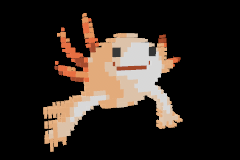
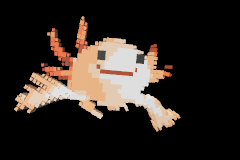
Make the README axolotl feel more alive

Changed region(s): [[0.0583, 0.0625, 0.7583, 0.9688]]

diff --git a/artwork/axolotl-model.tsx b/artwork/axolotl-model.tsx
@@ -25,11 +25,13 @@ type PartId =
   | "gill-right-upper"
   | "gill-right-side"
   | "limb-left"
-  | "limb-right";
+  | "limb-right"
+  | "eyes";
 type PartDefinition = {
   id: PartId;
   pivot: [number, number];
   amplitude: number;
+  depthAmplitude: number;
   frequency: number;
   phase: number;
   direction: number;
@@ -37,27 +39,30 @@ type PartDefinition = {
 type LayerShapes = { fill: string; shapes: Record<PartId, Solid | null> };
 
 const [WIDTH, HEIGHT] = axolotl.viewBox;
-const DEPTH = 0.2;
-const LAYER_STEP = 0.018;
+const DEPTH = 0.32;
+const LAYER_STEP = 0.04;
 const SVG_SCALE = 0.01;
 const TAU = Math.PI * 2;
+const EYE_FILL = axolotl.layers[axolotl.layers.length - 1].fill;
 
 const PARTS: PartDefinition[] = [
-  { id: "body", pivot: [156, 133], amplitude: 0, frequency: 0, phase: 0, direction: 0 },
-  { id: "gill-left-upper", pivot: [80, 94], amplitude: 0.2, frequency: 2, phase: 0.1, direction: 1 },
-  { id: "gill-left-side", pivot: [78, 109], amplitude: 0.17, frequency: 2, phase: 0.8, direction: -1 },
-  { id: "gill-left-inner", pivot: [99, 72], amplitude: 0.11, frequency: 2, phase: 1.3, direction: 1 },
-  { id: "gill-right-upper", pivot: [264, 92], amplitude: 0.18, frequency: 2, phase: 0.55, direction: -1 },
-  { id: "gill-right-side", pivot: [270, 107], amplitude: 0.15, frequency: 2, phase: 1.1, direction: 1 },
-  { id: "limb-left", pivot: [116, 174], amplitude: 0.36, frequency: 1, phase: 0, direction: 1 },
-  { id: "limb-right", pivot: [218, 174], amplitude: 0.36, frequency: 1, phase: Math.PI, direction: 1 },
+  { id: "body", pivot: [156, 133], amplitude: 0, depthAmplitude: 0, frequency: 0, phase: 0, direction: 0 },
+  { id: "gill-left-upper", pivot: [80, 94], amplitude: 0.25, depthAmplitude: 0.08, frequency: 2, phase: 0.1, direction: 1 },
+  { id: "gill-left-side", pivot: [78, 109], amplitude: 0.21, depthAmplitude: 0.07, frequency: 2, phase: 0.8, direction: -1 },
+  { id: "gill-left-inner", pivot: [99, 72], amplitude: 0.14, depthAmplitude: 0.05, frequency: 2, phase: 1.3, direction: 1 },
+  { id: "gill-right-upper", pivot: [264, 92], amplitude: 0.23, depthAmplitude: 0.08, frequency: 2, phase: 0.55, direction: -1 },
+  { id: "gill-right-side", pivot: [270, 107], amplitude: 0.19, depthAmplitude: 0.07, frequency: 2, phase: 1.1, direction: 1 },
+  { id: "limb-left", pivot: [116, 174], amplitude: 0.48, depthAmplitude: 0.16, frequency: 1, phase: 0, direction: 1 },
+  { id: "limb-right", pivot: [218, 174], amplitude: 0.46, depthAmplitude: 0.15, frequency: 1, phase: Math.PI, direction: 1 },
+  { id: "eyes", pivot: [184, 76], amplitude: 0, depthAmplitude: 0, frequency: 0, phase: 0, direction: 0 },
 ];
 
-function partFor(rectangle: Rectangle): PartId {
+function partFor(rectangle: Rectangle, fill: string): PartId {
   const [x, y, width, height] = rectangle;
   const centerX = x + width / 2;
   const centerY = y + height / 2;
 
+  if (fill === EYE_FILL) return "eyes";
   if (centerY < 96 && centerX < 82) return "gill-left-upper";
   if (centerY >= 96 && centerY < 137 && centerX < 82) return "gill-left-side";
   if (centerY < 76 && centerX >= 82 && centerX < 120) return "gill-left-inner";
@@ -84,7 +89,7 @@ function makeSolid(rectangles: Rectangle[], pivot: [number, number], layerIndex:
 
 const LAYER_SHAPES: LayerShapes[] = (axolotl.layers as PixelLayer[]).map((layer, layerIndex) => {
   const grouped = Object.fromEntries(PARTS.map((part) => [part.id, []])) as Record<PartId, Rectangle[]>;
-  for (const rectangle of layer.rectangles) grouped[partFor(rectangle)].push(rectangle);
+  for (const rectangle of layer.rectangles) grouped[partFor(rectangle, layer.fill)].push(rectangle);
 
   const shapes = {} as Record<PartId, Solid | null>;
   for (const part of PARTS) shapes[part.id] = makeSolid(grouped[part.id], part.pivot, layerIndex);
@@ -116,12 +121,14 @@ function LayerMeshes({ part }: { part: PartId }) {
 export function Axolotl({ phase = 0, yaw = 0.18, scale = 1, x = 0, y = 0, z = 0, loopFrames = 144 }: AxolotlProps) {
   const frame = useCurrentFrame();
   const cycle = (frame / loopFrames) * TAU + phase;
-  const bob = Math.sin(cycle) * 0.045;
-  const pitch = Math.sin(cycle + 0.55) * 0.065;
-  const yawSway = yaw + Math.sin(cycle - 0.7) * 0.11;
-  const roll = Math.sin(cycle + 0.25) * 0.055;
-  const breath = Math.sin(cycle * 2 + 0.3) * 0.018;
-
+  const bob = Math.sin(cycle) * 0.065;
+  const pitch = Math.sin(cycle + 0.55) * 0.11;
+  const yawSway = yaw + Math.sin(cycle - 0.7) * 0.19;
+  const roll = Math.sin(cycle + 0.25) * 0.08;
+  const breath = Math.sin(cycle * 2 + 0.3) * 0.028;
+  const loopProgress = ((frame / loopFrames + phase / TAU) % 1 + 1) % 1;
+  const blink = Math.max(0, 1 - Math.abs(loopProgress - 0.63) / 0.018);
+  const eyeScaleY = 1 - blink * 0.92;
   return (
     <Entity
       transform={Transform.fromXyz(x, y + bob, z)
@@ -132,13 +139,18 @@ export function Axolotl({ phase = 0, yaw = 0.18, scale = 1, x = 0, y = 0, z = 0,
         <LayerMeshes part="body" />
       </Entity>
       {PARTS.filter((part) => part.id !== "body").map((part) => {
-        const angle = Math.sin(cycle * part.frequency + part.phase) * part.amplitude * part.direction;
+        const partCycle = cycle * part.frequency + part.phase;
+        const angle = Math.sin(partCycle) * part.amplitude * part.direction;
+        const depthAngle = Math.sin(partCycle - 0.65) * part.depthAmplitude * part.direction;
         const pivotX = (part.pivot[0] - WIDTH / 2) * SVG_SCALE;
         const pivotY = (HEIGHT / 2 - part.pivot[1]) * SVG_SCALE;
+        const scaleY = part.id === "eyes" ? eyeScaleY : 1;
         return (
           <Entity
             key={part.id}
-            transform={Transform.fromXyz(pivotX, pivotY, 0).withRotation(Quat.fromEuler("XYZ", 0, 0, angle))}
+            transform={Transform.fromXyz(pivotX, pivotY, 0)
+              .withRotation(Quat.fromEuler("XYZ", depthAngle, depthAngle * 0.35, angle))
+              .withScale([1, scaleY, 1])}
           >
             <LayerMeshes part={part.id} />
           </Entity>

diff --git a/artwork/axolotl-3d.tsx b/artwork/axolotl-3d.tsx
@@ -6,8 +6,8 @@ import { Axolotl } from "./axolotl-model";
 
 const WIDTH = 240;
 const HEIGHT = 160;
-const FRAMES = 48;
-const FPS = 12;
+const FRAMES = 96;
+const FPS = 24;
 
 type SwimProps = {
   phase: number;
@@ -19,11 +19,11 @@ type SwimProps = {
 function Swim({ phase, yaw, direction, tint }: SwimProps) {
   const frame = useCurrentFrame();
   const cycle = (frame / FRAMES) * Math.PI * 2;
-  const drift = Math.sin(cycle + phase) * 0.28 * direction;
+  const drift = Math.sin(cycle + phase) * 0.32 * direction;
   return (
     <AbsoluteFill style={{ background: tint }}>
       <Camera3d
-        transform={Transform.fromXyz(0, 0.45, 3.8).lookingAt([0, 0, 0])}
+        transform={Transform.fromXyz(0.62, 0.72, 3.8).lookingAt([0, 0, 0])}
         projection={{ Perspective: { fov: (44 * Math.PI) / 180 } }}
       />
       <AmbientLight brightness={150} />
@@ -31,7 +31,7 @@ function Swim({ phase, yaw, direction, tint }: SwimProps) {
         transform={Transform.fromXyz(-2.8, 4.2, 5).lookingAt([0, 0, 0])}
         illuminance={9800}
       />
-      <Axolotl phase={phase} loopFrames={FRAMES} yaw={yaw} scale={0.9} x={drift} y={0.02 + Math.sin(cycle * 2 + phase) * 0.025} />
+      <Axolotl phase={phase} loopFrames={FRAMES} yaw={yaw} scale={0.9} x={drift} y={0.02 + Math.sin(cycle * 2 + phase) * 0.04} />
     </AbsoluteFill>
   );
 }

diff --git a/artwork/readme-hero.tsx b/artwork/readme-hero.tsx
@@ -66,7 +66,7 @@ function Hero() {
 
       <Canvas3D layered>
         <Camera3d
-          transform={Transform.fromXyz(0, 0.28, 7.5).lookingAt([0, 0, 0])}
+          transform={Transform.fromXyz(0.9, 0.6, 7.5).lookingAt([0, 0, 0])}
           projection={{ Perspective: { fov: (40 * Math.PI) / 180 } }}
         />
         <AmbientLight brightness={150} />

diff --git a/README.md b/README.md
@@ -3,7 +3,7 @@
 <p align="center">
   <picture>
     <source media="(prefers-reduced-motion: reduce)" srcset="artwork/subagents-hero.png" />
-    <img src="artwork/subagents-hero.gif" alt="The live Nodecode axolotl, built from its exact SVG geometry as a 3D extrusion, swimming with fluttering gills and out-of-phase limb strokes beside the subagents workflow." width="100%" />
+    <img src="artwork/subagents-hero.gif" alt="The source-derived axolotl banks through a layered 3D swim cycle, with independent gill fanning, out-of-phase paddles, body breathing and a quick blink beside the subagents workflow." width="100%" />
   </picture>
 </p>
 
@@ -21,7 +21,7 @@ An OMP-style Nodecode cell for parallel child sessions and IRC-style coordinatio
 <p align="right">
   <picture>
     <source media="(prefers-reduced-motion: reduce)" srcset="artwork/media/axolotl-setup-still.png" />
-    <img src="artwork/axolotl-setup.gif" alt="The source-derived axolotl swims beside the installation instructions, fluttering its gills as its limbs paddle." width="200" />
+    <img src="artwork/axolotl-setup.gif" alt="A source-derived 3D axolotl swims beside the installation steps, fanning its gills, paddling its limbs and blinking briefly." width="200" />
   </picture>
 </p>
 
@@ -46,7 +46,7 @@ Nodecode must have local-cell loading enabled. Install and enable the `nodecode-
 <p align="right">
   <picture>
     <source media="(prefers-reduced-motion: reduce)" srcset="artwork/media/axolotl-configure-still.png" />
-    <img src="artwork/axolotl-configure.gif" alt="The source-derived axolotl swims beside configuration instructions, with gills and limbs moving independently." width="200" />
+    <img src="artwork/axolotl-configure.gif" alt="The source-derived axolotl turns and paddles beside configuration instructions, its gills and limbs moving independently." width="200" />
   </picture>
 </p>
 
@@ -71,7 +71,7 @@ When upgrading from 0.1.x, remove `budget_tokens` and `budget_seconds` from `~/.
 <p align="right">
   <picture>
     <source media="(prefers-reduced-motion: reduce)" srcset="artwork/media/axolotl-eval-apis-still.png" />
-    <img src="artwork/axolotl-eval-apis.gif" alt="The source-derived axolotl paddles through a seamless swim loop beside the eval API section." width="200" />
+    <img src="artwork/axolotl-eval-apis.gif" alt="A source-derived 3D axolotl swims through a seamless loop beside the eval API section, with a quick blink and independently moving gills." width="200" />
   </picture>
 </p>
 
@@ -95,7 +95,7 @@ The cell exports `subagents:task`, `subagents:agents`, and `subagents:irc`. Call
 <p align="right">
   <picture>
     <source media="(prefers-reduced-motion: reduce)" srcset="artwork/media/axolotl-sessions-still.png" />
-    <img src="artwork/axolotl-sessions.gif" alt="The source-derived axolotl turns and paddles through the sessions section, its gills fluttering with the swim cycle." width="200" />
+    <img src="artwork/axolotl-sessions.gif" alt="The source-derived axolotl rolls through a swim cycle beside the sessions section, fanning its gills and paddling its limbs." width="200" />
   </picture>
 </p>
 
@@ -107,7 +107,7 @@ Workers use the workspace paths you provide. Those directories are shared, not i
 
 ## Artwork
 
-The live homepage header uses a 312 × 266 SVG; it does not expose a 3D model or animation asset. This artwork preserves the live vector's seven paths and 253 rectangles, extrudes the original palette into depth, and rigs its gills and paired limbs. The gills flutter twice per swim stroke, the limbs paddle out of phase, and the body rolls, breathes, and turns on a phase-closed loop.
+The animated top-left Foresight Labs mark is not a downloadable 3D model: it is a 312 × 266 pixel-art SVG whose path geometry changes on pointer hover, with a canvas reticle that follows the pointer. This README keeps the source's seven color layers and 253 rectangles, extrudes them into a thicker 3D relief, and adds a faster swim loop with independent gill and limb motion, body breathing, and a blink.
 
 From `artwork/`, regenerate the geometry, STL preview, animation loops, and reduced-motion stills with [RAEA](https://raea.io/install) and `ffmpeg` installed:
 
